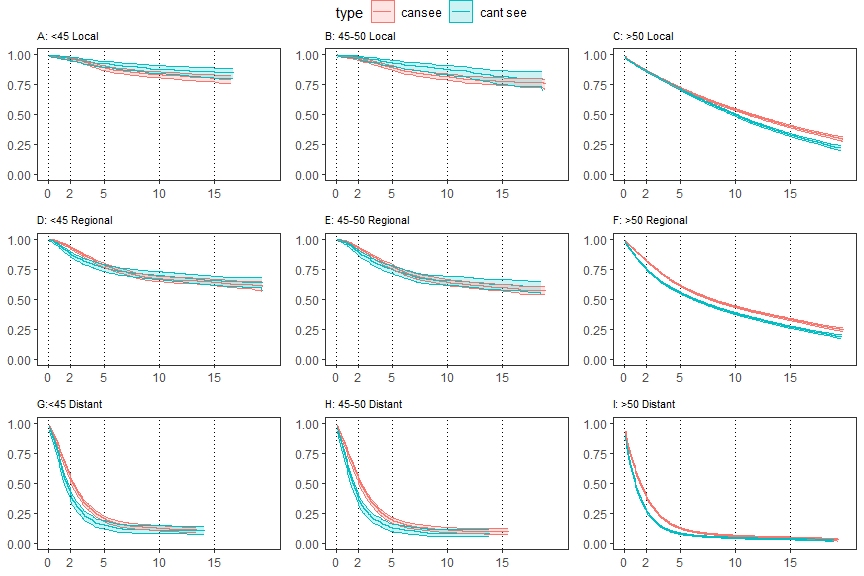
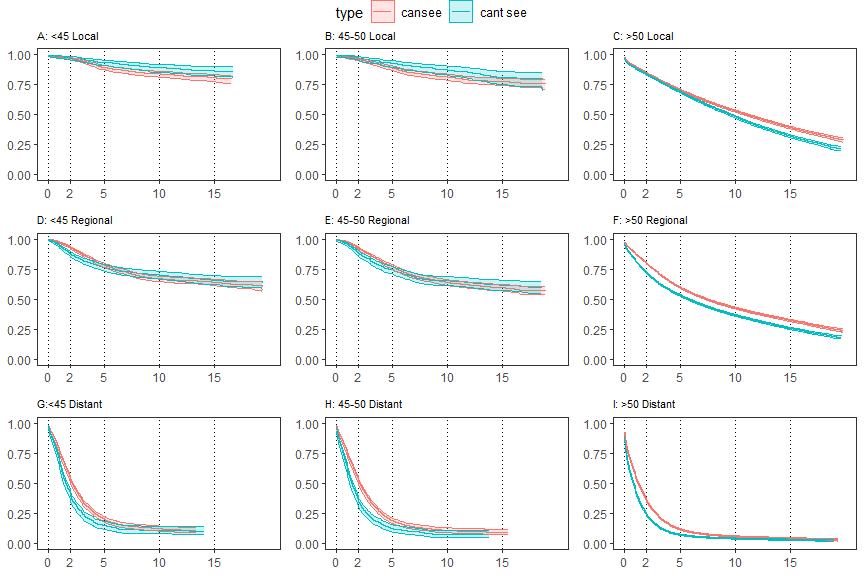
fixed age and survival months bug

diff --git a/SEER_CRC_Sigmoidoscopy.md b/SEER_CRC_Sigmoidoscopy.md
@@ -1,7 +1,7 @@
 SEER Sigmoidoscopy Project
 ================
 <david.hein@utsouthwestern.edu>
-2023-02-20
+2023-03-09
 
 - <a href="#1-load-packages-and-raw-data"
   id="toc-1-load-packages-and-raw-data">1 Load packages and raw data</a>
@@ -53,9 +53,9 @@ SEER Sigmoidoscopy Project
 - <a href="#7-km-plots-with-better-95-cis"
   id="toc-7-km-plots-with-better-95-cis">7 KM Plots with better 95%
   CIs</a>
-- <a href="#8-css-plots" id="toc-8-css-plots">8 CSS Plots</a>
-- <a href="#9-os-plots" id="toc-9-os-plots">9 OS plots</a>
-- <a href="#10-session-info" id="toc-10-session-info">10 Session Info</a>
+  - <a href="#71-css-plots" id="toc-71-css-plots">7.1 CSS Plots</a>
+  - <a href="#72-os-plots" id="toc-72-os-plots">7.2 OS plots</a>
+- <a href="#8-session-info" id="toc-8-session-info">8 Session Info</a>
 
 <br>
 
@@ -69,6 +69,7 @@ library(survminer)
 library(tidyverse)
 library(survRM2)
 library(km.ci)
+library(readr)
 set.seed(2023)
 
 seer_data <- read_delim("seer_data.txt", delim = "\t", escape_double = FALSE, trim_ws = TRUE)
@@ -104,9 +105,9 @@ new_data <- new_data %>%filter(`Histologic Type ICD-O-3`==8140)
 new_data <- new_data %>% mutate(can_see_sigmoid = ifelse( `Primary Site` %in% c(186,187,199,209),1,0))
 
 # make new variable for 3 age groups
-new_data <- new_data %>% mutate(age_group = as.numeric(str_sub(`Age recode with single ages and 100+`,1,2)))
-new_data <- new_data %>% mutate(age_group_final = ifelse(age_group <45,'under45', 'over50'))%>%
-  mutate(age_group_final = ifelse(age_group <50 & age_group >= 45,'45-50',age_group_final))
+new_data <- new_data %>% mutate(age_numeric = as.numeric(str_extract(`Age recode with single ages and 100+`,"[:digit:]+")))
+new_data <- new_data %>% mutate(age_group_final = ifelse(age_numeric <45,'under45', 'over50'))%>%
+  mutate(age_group_final = ifelse(age_numeric <50 & age_numeric >= 45,'45-50',age_group_final))
 
 # Combine the two stages
 new_data<-new_data%>%mutate(new_stage = ifelse(`Summary stage 2000 (1998-2017)`=="Blank(s)",
@@ -164,7 +165,8 @@ new_data5<-new_data4 %>% dplyr::select(Sex,
                                        cancer_specific_status, 
                                        overall_status,
                                        `Survival months`,
-                                       `Primary Site`)%>%
+                                       `Primary Site`,
+                                       age_numeric)%>%
                           rename(survival_months=`Survival months`, primary_site = `Primary Site`)
 
 # set new factor levels, first level is the reference group
@@ -199,42 +201,42 @@ table(new_data5$primary_site,new_data5$age_group_final,new_data5$new_stage)
     ## 
     ##      
     ##       over50 under45 45-50
-    ##   180  13198     389   372
-    ##   182  13650     378   367
-    ##   183   3115      99    82
-    ##   184   5866     256   195
-    ##   185   1812     113    81
+    ##   180  13202     385   372
+    ##   182  13659     369   367
+    ##   183   3119      95    82
+    ##   184   5873     249   195
+    ##   185   1813     112    81
     ##   186   3521     231   202
-    ##   187  17389     987  1048
-    ##   199   6519     414   416
-    ##   209  18180    1305  1441
+    ##   187  17396     980  1048
+    ##   199   6522     411   416
+    ##   209  18196    1289  1441
     ## 
     ## , ,  = Regional
     ## 
     ##      
     ##       over50 under45 45-50
-    ##   180  18453     769   714
-    ##   182  15959     778   610
-    ##   183   4168     271   166
-    ##   184   7985     510   397
-    ##   185   3233     264   202
-    ##   186   5212     531   405
-    ##   187  23032    2213  2041
-    ##   199   9707    1012   956
-    ##   209  22956    2819  2539
+    ##   180  18461     761   714
+    ##   182  15970     767   610
+    ##   183   4169     270   166
+    ##   184   7993     502   397
+    ##   185   3237     260   202
+    ##   186   5213     530   405
+    ##   187  23042    2203  2041
+    ##   199   9709    1010   956
+    ##   209  22960    2815  2539
     ## 
     ## , ,  = Distant
     ## 
     ##      
     ##       over50 under45 45-50
-    ##   180  10628     507   579
-    ##   182   7312     405   421
-    ##   183   2149     173   138
-    ##   184   3715     321   238
+    ##   180  10633     502   579
+    ##   182   7316     401   421
+    ##   183   2150     172   138
+    ##   184   3716     320   238
     ##   185   1579     152   138
     ##   186   2641     343   286
-    ##   187  14875    1799  1551
-    ##   199   6377     736   666
+    ##   187  14879    1795  1551
+    ##   199   6378     735   666
     ##   209  12285    1575  1452
 
 <br>
@@ -288,9 +290,9 @@ knitr::kable(age_log,digits=2)
 
 | term                   | estimate | std.error | statistic | p.value | conf.low | conf.high |
 |:-----------------------|---------:|----------:|----------:|--------:|---------:|----------:|
-| (Intercept)            |     1.26 |      0.00 |     58.96 |       0 |     1.25 |      1.27 |
-| age_group_finalunder45 |     2.05 |      0.02 |     43.44 |       0 |     1.99 |      2.12 |
-| age_group_final45-50   |     2.19 |      0.02 |     44.78 |       0 |     2.11 |      2.26 |
+| (Intercept)            |     1.26 |      0.00 |     58.91 |       0 |     1.25 |      1.27 |
+| age_group_finalunder45 |     2.07 |      0.02 |     43.81 |       0 |     2.00 |      2.14 |
+| age_group_final45-50   |     2.19 |      0.02 |     44.79 |       0 |     2.11 |      2.26 |
 
 ## 4.3 Logistic results: stage
 
@@ -340,20 +342,20 @@ knitr::kable(multi_log,digits=2)
 
 | term                                               | estimate | std.error | statistic | p.value | conf.low | conf.high |
 |:---------------------------------------------------|---------:|----------:|----------:|--------:|---------:|----------:|
-| (Intercept)                                        |     0.96 |      0.01 |     -4.28 |    0.00 |     0.94 |      0.98 |
-| race_ethHispanic (All Races)                       |     1.18 |      0.01 |     13.57 |    0.00 |     1.15 |      1.21 |
-| race_ethNon-Hispanic American Indian/Alaska Native |     1.17 |      0.04 |      3.58 |    0.00 |     1.08 |      1.28 |
-| race_ethNon-Hispanic Asian or Pacific Islander     |     1.56 |      0.01 |     31.50 |    0.00 |     1.52 |      1.61 |
+| (Intercept)                                        |     0.96 |      0.01 |     -4.24 |    0.00 |     0.94 |      0.98 |
+| race_ethHispanic (All Races)                       |     1.18 |      0.01 |     13.52 |    0.00 |     1.15 |      1.21 |
+| race_ethNon-Hispanic American Indian/Alaska Native |     1.17 |      0.04 |      3.57 |    0.00 |     1.07 |      1.28 |
+| race_ethNon-Hispanic Asian or Pacific Islander     |     1.56 |      0.01 |     31.49 |    0.00 |     1.52 |      1.61 |
 | race_ethNon-Hispanic Black                         |     0.77 |      0.01 |    -21.27 |    0.00 |     0.75 |      0.79 |
-| race_ethNon-Hispanic Unknown Race                  |     1.34 |      0.07 |      4.30 |    0.00 |     1.18 |      1.54 |
-| SexMale                                            |     1.52 |      0.01 |     55.26 |    0.00 |     1.50 |      1.55 |
-| age_group_finalunder45                             |     2.01 |      0.02 |     41.81 |    0.00 |     1.95 |      2.08 |
-| age_group_final45-50                               |     2.15 |      0.02 |     43.25 |    0.00 |     2.07 |      2.22 |
-| new_stageRegional                                  |     1.01 |      0.01 |      0.75 |    0.45 |     0.99 |      1.02 |
-| new_stageDistant                                   |     1.16 |      0.01 |     14.50 |    0.00 |     1.14 |      1.18 |
+| race_ethNon-Hispanic Unknown Race                  |     1.34 |      0.07 |      4.29 |    0.00 |     1.18 |      1.54 |
+| SexMale                                            |     1.52 |      0.01 |     55.22 |    0.00 |     1.50 |      1.55 |
+| age_group_finalunder45                             |     2.03 |      0.02 |     42.11 |    0.00 |     1.96 |      2.10 |
+| age_group_final45-50                               |     2.15 |      0.02 |     43.26 |    0.00 |     2.07 |      2.22 |
+| new_stageRegional                                  |     1.01 |      0.01 |      0.72 |    0.47 |     0.99 |      1.02 |
+| new_stageDistant                                   |     1.16 |      0.01 |     14.45 |    0.00 |     1.14 |      1.18 |
 | year_of_diagyod2                                   |     0.98 |      0.01 |     -2.06 |    0.04 |     0.96 |      1.00 |
 | year_of_diagyod3                                   |     0.99 |      0.01 |     -1.31 |    0.19 |     0.96 |      1.01 |
-| year_of_diagyod4                                   |     1.02 |      0.01 |      2.01 |    0.04 |     1.00 |      1.04 |
+| year_of_diagyod4                                   |     1.02 |      0.01 |      2.00 |    0.05 |     1.00 |      1.04 |
 
 <br>
 
@@ -469,7 +471,7 @@ ggsurvplot(km_site,censor=FALSE,ylim=c(0.5,1),xlim=c(0,100))
 
 ``` r
 # take out patients with 0 survival months
-new_data6<-new_data5%>%filter(survival_months>0)
+new_data6<-new_data5#%>%filter(survival_months>0)
 new_data7<- new_data6%>%select(survival_months,cancer_specific_status,can_see_sigmoid,age_group_final,new_stage,overall_status)
 
 # computes rmst with age group as a covariate, takes dataframe, vector of time points, and the stage as inputs, returns a data frame with results across time points in columns, rows are the stats we are looking at (add option to switch to OS)
@@ -538,6 +540,33 @@ compute_rmst_individually <- function(data,time_points,stage,css=TRUE){
   return(rms_combined_res_final)
 }
 
+
+# THIS FUNCTION DOESNT WORK JUST EXPERIMENTAL
+compute_rmst_all <- function(data, time_points, css=TRUE){
+  
+  data=new_data7
+  covs<-model.matrix(~age_group_final*can_see_sigmoid*new_stage,data=data)
+  covs<-covs[,-1]
+  rms_combined <- data.frame(col1="rmst")
+  
+  rms_temp <- rmst2(time=data$survival_months,status=data$cancer_specific_status,arm=data$can_see_sigmoid,covariates=covs,tau=60,alpha=0.05)
+  
+  for (t in time_points){
+    # calcs rmst with alpha corrected for 3 stages and number of time points 
+    if (css) {
+       rms_temp <- rmst2(time=data$survival_months,status=data$cancer_specific_status,arm=data$can_see_sigmoid,covariates=covs,tau=t,alpha=0.05/(3*length(time_points)) )
+    }else{
+       rms_temp <- rmst2(time=data$survival_months,status=data$overall_status,arm=data$can_see_sigmoid,covariates=covs,tau=t,alpha=0.05/(3*length(time_points)) )
+    }
+   
+    # round and add results to the data frame, each time point will be added as a block of columns 
+    rms_temp_res <- data.frame(rms_temp$RMST.difference.adjusted) %>% select(-se.coef., -z ) %>% mutate_all((function(x) round(x,digits=3))) %>% setNames( paste0('m_',t,"_",names(.)) )
+    rms_combined <- cbind(rms_combined,rms_temp_res)
+  }
+  return(rms_combined)
+  
+}
+
 local_res_combined_css <- compute_rmst_individually(new_data7,c(12,24,60,120),"Localized")
 regional_res_combined_css <- compute_rmst_individually(new_data7,c(12,24,60,120),"Regional")
 distant_res_combined_css <- compute_rmst_individually(new_data7,c(12,24,60,120),"Distant")
@@ -558,10 +587,10 @@ knitr::kable(local_res_combined_css,digits=3)
 ```
 
 |     | col1 | Diff 12 | Low CI 12 | Up CI 12 | p val 12 | Diff 24 | Low CI 24 | Up CI 24 | p val 24 | Diff 60 | Low CI 60 | Up CI 60 | p val 60 | Diff 120 | Low CI 120 | Up CI 120 | p val 120 |
-|-----|:-----|--------:|----------:|----------|---------:|--------:|----------:|----------|---------:|--------:|----------:|----------|----------|----------|-----------:|----------:|-----------|
-| u45 | rmst |  -0.024 |    -0.095 | 0.048    |    0.287 |  -0.120 |    -0.308 | 0.069    |    0.042 |  -1.120 |    -1.959 | -0.282   | 0        | -5.057   |     -7.659 |    -2.455 | 0         |
-| mid | rmst |  -0.057 |    -0.110 | -0.003   |    0.001 |  -0.171 |    -0.324 | -0.018   |    0.000 |  -0.890 |    -1.697 | -0.082   | 0        | -3.924   |     -6.566 |    -1.283 | 0         |
-| o50 | rmst |  -0.015 |    -0.051 | 0.021    |    0.178 |  -0.096 |    -0.188 | -0.005   |    0.001 |  -0.974 |    -1.296 | -0.653   | 0        | -4.056   |     -4.899 |    -3.213 | 0         |
+|-----|:-----|--------:|----------:|---------:|---------:|--------:|----------:|---------:|---------:|--------:|----------:|----------|---------:|----------|-----------:|----------:|-----------|
+| u45 | rmst |  -0.001 |    -0.093 |    0.091 |    0.976 |  -0.078 |    -0.296 |    0.140 |    0.251 |  -1.014 |    -1.871 | -0.157   |    0.000 | -4.833   |     -7.435 |    -2.230 | 0         |
+| mid | rmst |  -0.031 |    -0.114 |    0.051 |    0.223 |  -0.121 |    -0.318 |    0.077 |    0.051 |  -0.766 |    -1.629 | 0.097    |    0.005 | -3.681   |     -6.385 |    -0.976 | 0         |
+| o50 | rmst |   0.036 |    -0.011 |    0.084 |    0.015 |   0.006 |    -0.104 |    0.116 |    0.865 |  -0.720 |    -1.071 | -0.368   |    0.000 | -3.540   |     -4.420 |    -2.660 | 0         |
 
 ### 6.1.2 Regional
 
@@ -571,9 +600,9 @@ knitr::kable(regional_res_combined_css,digits=3)
 
 |     | col1 | Diff 12 | Low CI 12 | Up CI 12 | p val 12 | Diff 24 | Low CI 24 | Up CI 24 | p val 24 | Diff 60 | Low CI 60 | Up CI 60 | p val 60 | Diff 120 | Low CI 120 | Up CI 120 | p val 120 |
 |-----|:-----|---------|----------:|---------:|----------|---------|----------:|---------:|----------|---------|----------:|---------:|----------|---------:|-----------:|----------:|----------:|
-| u45 | rmst | 0.115   |     0.032 |    0.199 | 0        | 0.527   |     0.257 |    0.797 | 0        | 1.683   |     0.508 |    2.858 | 0        |    0.458 |     -2.710 |     3.626 |     0.644 |
-| mid | rmst | 0.099   |     0.008 |    0.189 | 0        | 0.421   |     0.137 |    0.705 | 0        | 1.793   |     0.514 |    3.072 | 0        |    1.914 |     -1.611 |     5.440 |     0.083 |
-| o50 | rmst | 0.225   |     0.185 |    0.266 | 0        | 0.777   |     0.668 |    0.886 | 0        | 2.431   |     2.040 |    2.822 | 0        |    2.710 |      1.728 |     3.692 |     0.000 |
+| u45 | rmst | 0.139   |     0.048 |    0.231 | 0        | 0.569   |     0.291 |    0.846 | 0        | 1.765   |     0.582 |    2.948 | 0        |    0.574 |     -2.602 |     3.750 |     0.564 |
+| mid | rmst | 0.133   |     0.027 |    0.240 | 0        | 0.489   |     0.185 |    0.793 | 0        | 1.947   |     0.647 |    3.246 | 0        |    2.196 |     -1.347 |     5.739 |     0.048 |
+| o50 | rmst | 0.336   |     0.285 |    0.387 | 0        | 0.982   |     0.859 |    1.106 | 0        | 2.875   |     2.468 |    3.282 | 0        |    3.533 |      2.542 |     4.524 |     0.000 |
 
 ### 6.1.3 Distant
 
@@ -583,9 +612,9 @@ knitr::kable(distant_res_combined_css,digits=3)
 
 |     | col1 | Diff 12 | Low CI 12 | Up CI 12 | p val 12 | Diff 24 | Low CI 24 | Up CI 24 | p val 24 | Diff 60 | Low CI 60 | Up CI 60 | p val 60 | Diff 120 | Low CI 120 | Up CI 120 | p val 120 |
 |-----|:-----|---------|----------:|---------:|----------|---------|----------:|---------:|----------|---------|----------:|---------:|----------|---------:|-----------:|----------:|-----------|
-| u45 | rmst | 0.593   |     0.290 |    0.896 | 0        | 2.105   |     1.345 |    2.865 | 0        | 5.518   |     3.472 |    7.564 | 0        |    7.320 |      3.235 |    11.405 | 0         |
-| mid | rmst | 0.826   |     0.486 |    1.165 | 0        | 2.678   |     1.862 |    3.495 | 0        | 6.705   |     4.631 |    8.780 | 0        |    9.283 |      5.361 |    13.205 | 0         |
-| o50 | rmst | 0.909   |     0.795 |    1.024 | 0        | 2.404   |     2.152 |    2.655 | 0        | 5.451   |     4.883 |    6.018 | 0        |    7.350 |      6.346 |     8.353 | 0         |
+| u45 | rmst | 0.630   |     0.298 |    0.963 | 0        | 2.132   |     1.348 |    2.916 | 0        | 5.499   |     3.460 |    7.538 | 0        |    7.286 |      3.257 |    11.314 | 0         |
+| mid | rmst | 1.005   |     0.631 |    1.378 | 0        | 2.938   |     2.098 |    3.779 | 0        | 7.039   |     4.988 |    9.090 | 0        |    9.692 |      5.866 |    13.518 | 0         |
+| o50 | rmst | 1.122   |     0.998 |    1.245 | 0        | 2.668   |     2.416 |    2.920 | 0        | 5.701   |     5.158 |    6.243 | 0        |    7.616 |      6.677 |     8.556 | 0         |
 
 <br>
 
@@ -598,10 +627,10 @@ knitr::kable(local_res_combined_os,digits=3)
 ```
 
 |     | col1 | Diff 12 | Low CI 12 | Up CI 12 | p val 12 | Diff 24 | Low CI 24 | Up CI 24 | p val 24 | Diff 60 | Low CI 60 | Up CI 60 | p val 60 | Diff 120 | Low CI 120 | Up CI 120 | p val 120 |
-|-----|:-----|--------:|----------:|----------|---------:|--------:|----------:|----------|---------:|--------:|----------:|----------|---------:|----------|-----------:|----------:|----------:|
-| u45 | rmst |   0.014 |    -0.075 | 0.103    |    0.658 |   0.015 |    -0.228 | 0.258    |    0.860 |  -0.508 |    -1.492 | 0.476    |    0.139 | -3.150   |     -5.997 |    -0.303 |     0.002 |
-| mid | rmst |  -0.071 |    -0.141 | -0.001   |    0.004 |  -0.244 |    -0.438 | -0.051   |    0.000 |  -1.175 |    -2.081 | -0.270   |    0.000 | -4.563   |     -7.383 |    -1.742 |     0.000 |
-| o50 | rmst |   0.048 |     0.003 | 0.092    |    0.002 |   0.119 |     0.007 | 0.231    |    0.002 |   0.354 |    -0.024 | 0.733    |    0.007 | 1.944    |      1.011 |     2.878 |     0.000 |
+|-----|:-----|--------:|----------:|---------:|---------:|--------:|----------:|---------:|---------:|--------:|----------:|----------|---------:|----------|-----------:|----------:|-----------|
+| u45 | rmst |   0.017 |    -0.084 |    0.117 |    0.637 |  -0.017 |    -0.263 |    0.228 |    0.838 |  -0.750 |    -1.678 | 0.178    |    0.021 | -3.787   |     -6.496 |    -1.077 | 0         |
+| mid | rmst |  -0.040 |    -0.149 |    0.069 |    0.291 |  -0.182 |    -0.436 |    0.071 |    0.040 |  -1.022 |    -2.010 | -0.034   |    0.003 | -4.260   |     -7.173 |    -1.346 | 0         |
+| o50 | rmst |   0.142 |     0.086 |    0.199 |    0.000 |   0.302 |     0.172 |    0.432 |    0.000 |   0.772 |     0.369 | 1.175    |    0.000 | 2.630    |      1.679 |     3.581 | 0         |
 
 ### 6.2.2 Regional
 
@@ -610,10 +639,10 @@ knitr::kable(regional_res_combined_os,digits=3)
 ```
 
 |     | col1 | Diff 12 | Low CI 12 | Up CI 12 | p val 12 | Diff 24 | Low CI 24 | Up CI 24 | p val 24 | Diff 60 | Low CI 60 | Up CI 60 | p val 60 | Diff 120 | Low CI 120 | Up CI 120 | p val 120 |
-|-----|:-----|---------|----------:|---------:|---------:|---------|----------:|---------:|----------|---------|----------:|---------:|----------|---------:|-----------:|----------:|----------:|
-| u45 | rmst | 0.191   |     0.100 |    0.282 |    0.000 | 0.724   |     0.449 |    0.999 | 0        | 2.252   |     1.136 |    3.369 | 0        |    1.831 |     -1.107 |     4.769 |     0.074 |
-| mid | rmst | 0.090   |     0.005 |    0.176 |    0.002 | 0.417   |     0.150 |    0.684 | 0        | 1.761   |     0.578 |    2.944 | 0        |    2.151 |     -1.074 |     5.376 |     0.056 |
-| o50 | rmst | 0.315   |     0.272 |    0.359 |    0.000 | 1.027   |     0.914 |    1.140 | 0        | 3.499   |     3.123 |    3.875 | 0        |    6.857 |      5.985 |     7.728 |     0.000 |
+|-----|:-----|---------|----------:|---------:|----------|---------|----------:|---------:|----------|---------|----------:|---------:|----------|---------:|-----------:|----------:|----------:|
+| u45 | rmst | 0.199   |     0.103 |    0.295 | 0        | 0.726   |     0.448 |    1.005 | 0        | 2.196   |     1.078 |    3.315 | 0        |    1.586 |     -1.351 |     4.523 |     0.122 |
+| mid | rmst | 0.138   |     0.033 |    0.243 | 0        | 0.509   |     0.217 |    0.800 | 0        | 1.967   |     0.759 |    3.176 | 0        |    2.523 |     -0.722 |     5.768 |     0.026 |
+| o50 | rmst | 0.471   |     0.417 |    0.526 | 0        | 1.309   |     1.182 |    1.436 | 0        | 4.064   |     3.675 |    4.453 | 0        |    7.754 |      6.881 |     8.627 |     0.000 |
 
 ### 6.2.3 Distant
 
@@ -623,9 +652,9 @@ knitr::kable(distant_res_combined_os,digits=3)
 
 |     | col1 | Diff 12 | Low CI 12 | Up CI 12 | p val 12 | Diff 24 | Low CI 24 | Up CI 24 | p val 24 | Diff 60 | Low CI 60 | Up CI 60 | p val 60 | Diff 120 | Low CI 120 | Up CI 120 | p val 120 |
 |-----|:-----|---------|----------:|---------:|----------|---------|----------:|---------:|----------|---------|----------:|---------:|----------|---------:|-----------:|----------:|-----------|
-| u45 | rmst | 0.604   |     0.328 |    0.881 | 0        | 2.127   |     1.442 |    2.811 | 0        | 5.672   |     3.887 |    7.457 | 0        |    7.490 |      4.017 |    10.963 | 0         |
-| mid | rmst | 0.823   |     0.517 |    1.130 | 0        | 2.693   |     1.962 |    3.425 | 0        | 6.735   |     4.919 |    8.552 | 0        |    9.219 |      5.880 |    12.559 | 0         |
-| o50 | rmst | 0.922   |     0.817 |    1.026 | 0        | 2.381   |     2.158 |    2.604 | 0        | 5.221   |     4.738 |    5.703 | 0        |    6.848 |      6.047 |     7.648 | 0         |
+| u45 | rmst | 0.632   |     0.330 |    0.935 | 0        | 2.134   |     1.429 |    2.840 | 0        | 5.615   |     3.836 |    7.394 | 0        |    7.404 |      3.979 |    10.829 | 0         |
+| mid | rmst | 1.046   |     0.707 |    1.386 | 0        | 3.019   |     2.265 |    3.774 | 0        | 7.157   |     5.364 |    8.950 | 0        |    9.731 |      6.482 |    12.980 | 0         |
+| o50 | rmst | 1.156   |     1.045 |    1.268 | 0        | 2.670   |     2.447 |    2.893 | 0        | 5.491   |     5.032 |    5.949 | 0        |    7.125 |      6.381 |     7.869 | 0         |
 
 <br><br>
 
@@ -684,7 +713,7 @@ make_plot <- function(plot_dat,fig_title){# takes in plot data generated from ma
 
 <br><br>
 
-# 8 CSS Plots
+## 7.1 CSS Plots
 
 ``` r
 # Local
@@ -730,12 +759,12 @@ ggarrange(a,b,c,d,e,f,g,h,i,common.legend = TRUE)
 ![](SEER_CRC_Sigmoidoscopy_files/figure-gfm/unnamed-chunk-26-1.png)<!-- -->
 
 ``` r
-ggsave(plot=last_plot(),file="css_km.png",height=8, width=11.5)
+#ggsave(plot=last_plot(),file="css_km.png",height=8, width=11.5)
 ```
 
 <br><br>
 
-# 9 OS plots
+## 7.2 OS plots
 
 ``` r
 # Local
@@ -781,7 +810,7 @@ ggarrange(a,b,c,d,e,f,g,h,i,common.legend = TRUE)+ggtitle("OS")
 
 <br><br>
 
-# 10 Session Info
+# 8 Session Info
 
 ``` r
 sessionInfo()
@@ -810,30 +839,29 @@ sessionInfo()
     ## [13] ggplot2_3.4.0   survival_3.4-0  MASS_7.3-58.1   broom_1.0.3    
     ## 
     ## loaded via a namespace (and not attached):
-    ##  [1] fs_1.6.0            lubridate_1.9.1     bit64_4.0.5        
-    ##  [4] httr_1.4.4          tools_4.2.2         backports_1.4.1    
-    ##  [7] utf8_1.2.2          R6_2.5.1            DBI_1.1.3          
-    ## [10] colorspace_2.1-0    withr_2.5.0         tidyselect_1.2.0   
-    ## [13] gridExtra_2.3       bit_4.0.5           compiler_4.2.2     
-    ## [16] textshaping_0.3.6   cli_3.4.1           rvest_1.0.3        
-    ## [19] xml2_1.3.3          labeling_0.4.2      scales_1.2.1       
-    ## [22] survMisc_0.5.6      systemfonts_1.0.4   digest_0.6.31      
-    ## [25] rmarkdown_2.20      pkgconfig_2.0.3     htmltools_0.5.4    
-    ## [28] dbplyr_2.3.0        fastmap_1.1.0       highr_0.10         
-    ## [31] rlang_1.0.6         readxl_1.4.1        rstudioapi_0.14    
-    ## [34] generics_0.1.3      farver_2.1.1        zoo_1.8-11         
-    ## [37] jsonlite_1.8.4      vroom_1.6.1         car_3.1-1          
-    ## [40] googlesheets4_1.0.1 magrittr_2.0.3      Matrix_1.5-1       
-    ## [43] munsell_0.5.0       fansi_1.0.3         abind_1.4-5        
-    ## [46] lifecycle_1.0.3     stringi_1.7.12      yaml_2.3.7         
-    ## [49] carData_3.0-5       grid_4.2.2          parallel_4.2.2     
-    ## [52] crayon_1.5.2        lattice_0.20-45     haven_2.5.1        
-    ## [55] cowplot_1.1.1       splines_4.2.2       hms_1.1.2          
-    ## [58] knitr_1.42          pillar_1.8.1        ggsignif_0.6.4     
-    ## [61] reprex_2.0.2        glue_1.6.2          evaluate_0.20      
-    ## [64] data.table_1.14.6   modelr_0.1.10       vctrs_0.5.2        
-    ## [67] tzdb_0.3.0          cellranger_1.1.0    gtable_0.3.1       
-    ## [70] assertthat_0.2.1    xfun_0.37           xtable_1.8-4       
-    ## [73] rstatix_0.7.2       ragg_1.2.5          googledrive_2.0.0  
-    ## [76] gargle_1.3.0        KMsurv_0.1-5        timechange_0.2.0   
-    ## [79] ellipsis_0.3.2
+    ##  [1] httr_1.4.4          bit64_4.0.5         vroom_1.6.1        
+    ##  [4] jsonlite_1.8.4      splines_4.2.2       carData_3.0-5      
+    ##  [7] modelr_0.1.10       assertthat_0.2.1    highr_0.10         
+    ## [10] googlesheets4_1.0.1 cellranger_1.1.0    yaml_2.3.7         
+    ## [13] pillar_1.8.1        backports_1.4.1     lattice_0.20-45    
+    ## [16] glue_1.6.2          digest_0.6.31       ggsignif_0.6.4     
+    ## [19] rvest_1.0.3         colorspace_2.1-0    cowplot_1.1.1      
+    ## [22] htmltools_0.5.4     Matrix_1.5-1        pkgconfig_2.0.3    
+    ## [25] haven_2.5.1         xtable_1.8-4        scales_1.2.1       
+    ## [28] KMsurv_0.1-5        tzdb_0.3.0          timechange_0.2.0   
+    ## [31] googledrive_2.0.0   farver_2.1.1        generics_0.1.3     
+    ## [34] car_3.1-1           ellipsis_0.3.2      withr_2.5.0        
+    ## [37] cli_3.4.1           crayon_1.5.2        magrittr_2.0.3     
+    ## [40] readxl_1.4.1        evaluate_0.20       fs_1.6.0           
+    ## [43] fansi_1.0.3         rstatix_0.7.2       xml2_1.3.3         
+    ## [46] tools_4.2.2         data.table_1.14.6   hms_1.1.2          
+    ## [49] gargle_1.3.0        lifecycle_1.0.3     munsell_0.5.0      
+    ## [52] reprex_2.0.2        compiler_4.2.2      rlang_1.0.6        
+    ## [55] grid_4.2.2          rstudioapi_0.14     labeling_0.4.2     
+    ## [58] rmarkdown_2.20      gtable_0.3.1        abind_1.4-5        
+    ## [61] DBI_1.1.3           R6_2.5.1            gridExtra_2.3      
+    ## [64] zoo_1.8-11          lubridate_1.9.1     knitr_1.42         
+    ## [67] bit_4.0.5           fastmap_1.1.0       survMisc_0.5.6     
+    ## [70] utf8_1.2.2          stringi_1.7.12      parallel_4.2.2     
+    ## [73] vctrs_0.5.2         dbplyr_2.3.0        tidyselect_1.2.0   
+    ## [76] xfun_0.37
